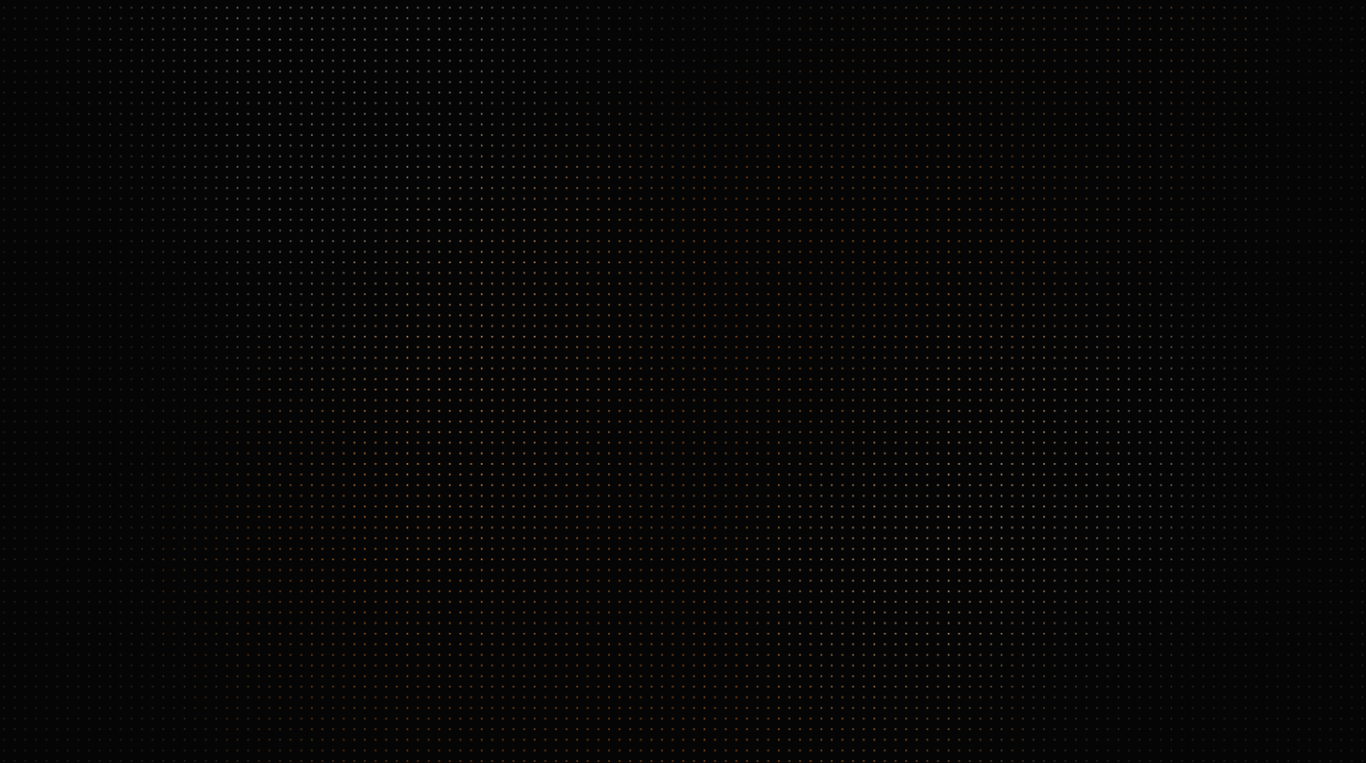
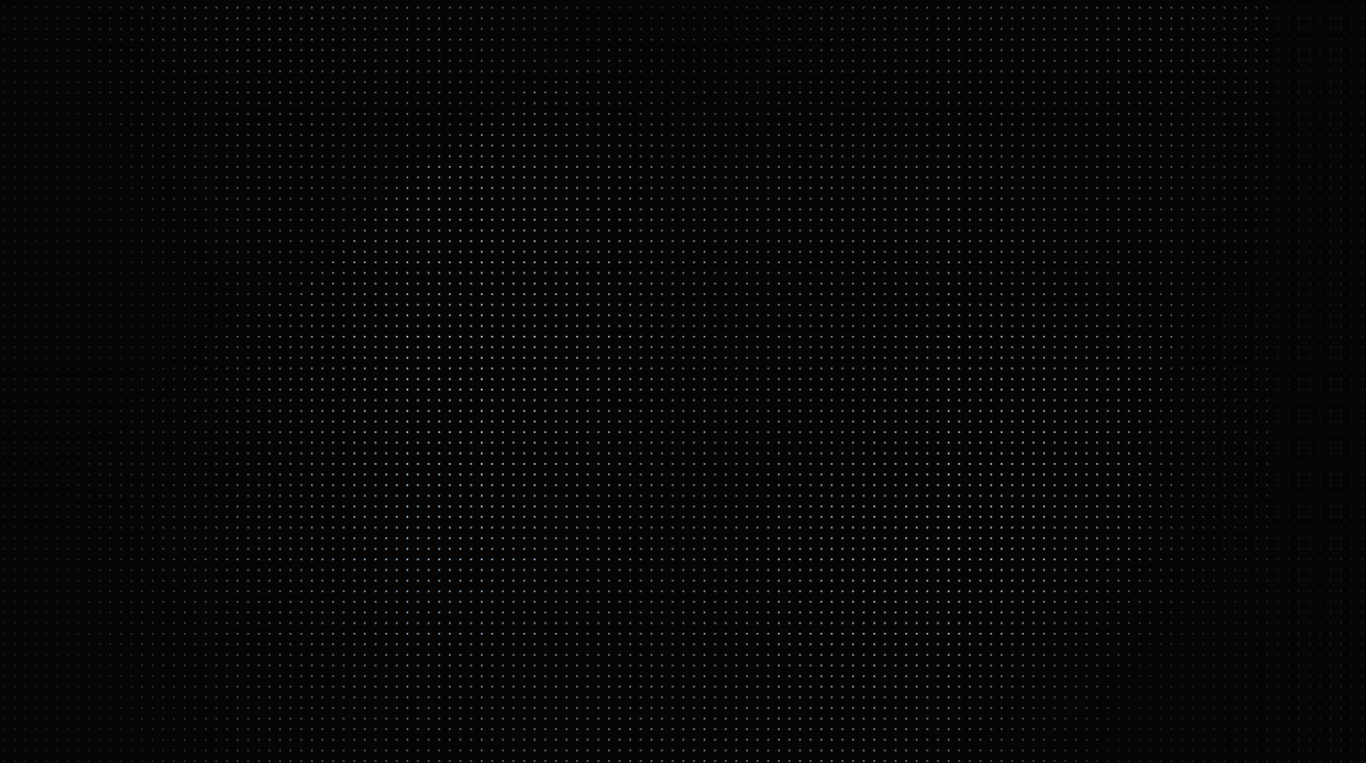
UI Fixes

Changed region(s): [[0.369, 0.9948, 0.7072, 1.0], [0.2152, 0.9948, 0.2767, 1.0], [0.3075, 0.9948, 0.3382, 1.0]]

diff --git a/similarity/src/App.css b/similarity/src/App.css
@@ -1,119 +1,160 @@
 @import url('https://fonts.googleapis.com/css2?family=Poppins:ital,wght@0,100;0,200;0,300;0,400;0,500;0,600;0,700;0,800;0,900;1,100;1,200;1,300;1,400;1,500;1,600;1,700;1,800;1,900&display=swap');
-
-*{
+* {
     box-sizing: border-box;
     -webkit-tap-highlight-color: transparent;
 }
-body{
+
+body {
     width: 100%;
     height: 100vh;
     background-color: #000;
     color: #fff;
-    font-family: 'Poppins',sans-serif;
+    font-family: 'Poppins', sans-serif;
 }
-#root{
+
+#root {
     width: 100%;
     height: 100%;
     overflow-y: scroll;
 }
+
 #root::-webkit-scrollbar {
     width: 8px;
     height: 8px;
 }
+
 #root::-webkit-scrollbar-thumb:hover {
     background: #444;
 }
+
 #root::-webkit-scrollbar-thumb {
     background: #333;
     border-radius: 4px;
 }
+
 #root::-webkit-scrollbar-track {
     background: #000;
 }
-section{
+
+section {
     width: 100%;
     min-height: 100vh;
 }
-section.Main{
-    background: center / cover url('/bgpattern.png');
+
+.Main {
+    background-color: #000;
+    background-image: radial-gradient(circle at 50% 30vh, rgba(171, 217, 255, 0.15) 0%, transparent 60%), radial-gradient(rgba(171, 217, 255, 0.12) 1.2px, transparent 1.2px);
+    background-size: 100% 100%, 20px 20px;
+    background-repeat: no-repeat, repeat;
 }
-.opacity-style{
+
+.opacity-style {
     opacity: 1;
     transform: none;
 }
+
 .no-scrollbar::-webkit-scrollbar {
     display: none;
 }
+
 .no-scrollbar {
     -ms-overflow-style: none;
     scrollbar-width: none;
 }
 
+
 /* Redesign Calming Animations */
+
 @keyframes fadeInUp {
-  from {
-    opacity: 0;
-    transform: translateY(16px);
-  }
-  to {
-    opacity: 1;
-    transform: translateY(0);
-  }
+    from {
+        opacity: 0;
+        transform: translateY(16px);
+    }
+    to {
+        opacity: 1;
+        transform: translateY(0);
+    }
 }
 
 @keyframes fadeIn {
-  from {
-    opacity: 0;
-  }
-  to {
-    opacity: 1;
-  }
+    from {
+        opacity: 0;
+    }
+    to {
+        opacity: 1;
+    }
 }
 
 @keyframes scaleIn {
-  from {
-    opacity: 0;
-    transform: scale(0.98);
-  }
-  to {
-    opacity: 1;
-    transform: scale(1);
-  }
+    from {
+        opacity: 0;
+        transform: scale(0.98);
+    }
+    to {
+        opacity: 1;
+        transform: scale(1);
+    }
 }
 
 @keyframes pulseGlow {
-  0%, 100% {
-    opacity: 0.05;
-    transform: scale(1) translate(0, 0);
-  }
-  50% {
-    opacity: 0.12;
-    transform: scale(1.15) translate(2%, 2%);
-  }
+    0%,
+    100% {
+        opacity: 0.05;
+        transform: scale(1) translate(0, 0);
+    }
+    50% {
+        opacity: 0.12;
+        transform: scale(1.15) translate(2%, 2%);
+    }
 }
 
 .animate-fade-in-up {
-  animation: fadeInUp 0.7s cubic-bezier(0.16, 1, 0.3, 1) both;
+    animation: fadeInUp 0.7s cubic-bezier(0.16, 1, 0.3, 1) both;
 }
 
 .animate-fade-in {
-  animation: fadeIn 0.5s cubic-bezier(0.16, 1, 0.3, 1) both;
+    animation: fadeIn 0.5s cubic-bezier(0.16, 1, 0.3, 1) both;
 }
 
 .animate-scale-in {
-  animation: scaleIn 0.5s cubic-bezier(0.16, 1, 0.3, 1) both;
+    animation: scaleIn 0.5s cubic-bezier(0.16, 1, 0.3, 1) both;
 }
 
 .animate-pulse-glow {
-  animation: pulseGlow 10s ease-in-out infinite;
+    animation: pulseGlow 10s ease-in-out infinite;
 }
 
+
 /* Stagger delays for grid entry animations */
-.stagger-1 { animation-delay: 40ms; }
-.stagger-2 { animation-delay: 80ms; }
-.stagger-3 { animation-delay: 120ms; }
-.stagger-4 { animation-delay: 160ms; }
-.stagger-5 { animation-delay: 200ms; }
-.stagger-6 { animation-delay: 240ms; }
-.stagger-7 { animation-delay: 280ms; }
-.stagger-8 { animation-delay: 320ms; }
+
+.stagger-1 {
+    animation-delay: 40ms;
+}
+
+.stagger-2 {
+    animation-delay: 80ms;
+}
+
+.stagger-3 {
+    animation-delay: 120ms;
+}
+
+.stagger-4 {
+    animation-delay: 160ms;
+}
+
+.stagger-5 {
+    animation-delay: 200ms;
+}
+
+.stagger-6 {
+    animation-delay: 240ms;
+}
+
+.stagger-7 {
+    animation-delay: 280ms;
+}
+
+.stagger-8 {
+    animation-delay: 320ms;
+}

diff --git a/similarity/src/App.jsx b/similarity/src/App.jsx
@@ -214,8 +214,8 @@ function Home({ user, onSignOut }) {
   };
 
   return (
-    <>
-      <section id="main" className="Main">
+    <div className="Main w-full min-h-screen">
+      <section id="main">
         <nav className="fixed top-6 left-0 right-0 z-50 flex justify-center cursor-pointer">
           <div className="bg-black/60 rounded-lg py-2.5 px-8 max-w-6xl w-full mx-auto flex justify-between items-center shadow-lg backdrop-blur-sm">
             <Link to="/" className="text-[#abd9ff] text-2xl font-bold flex items-center gap-2">
@@ -555,7 +555,7 @@ function Home({ user, onSignOut }) {
             </div>
           </div>
       </section>
-    </>
+    </div>
   );
 }
 
